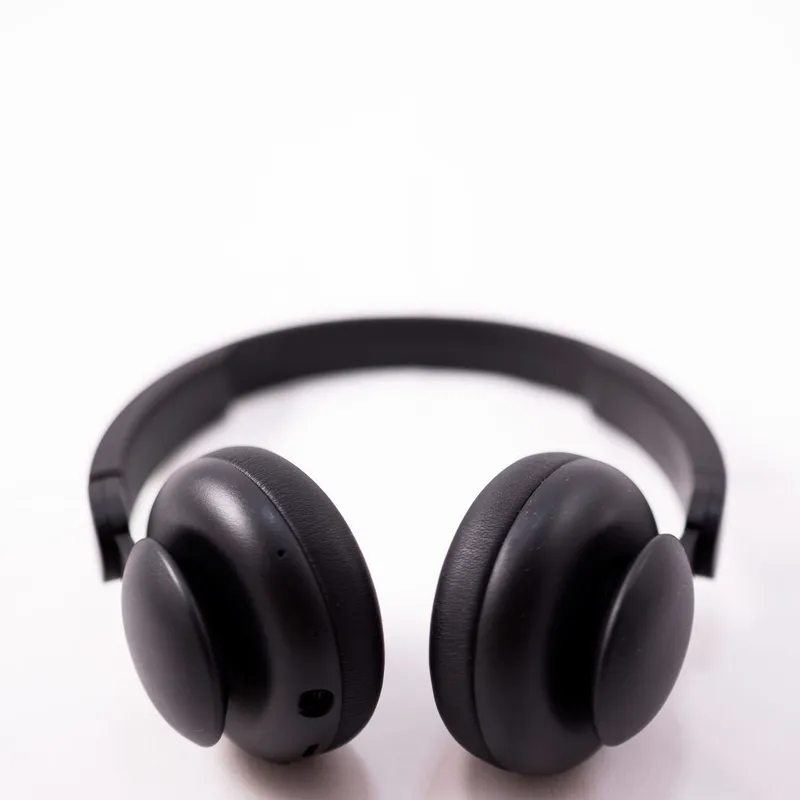
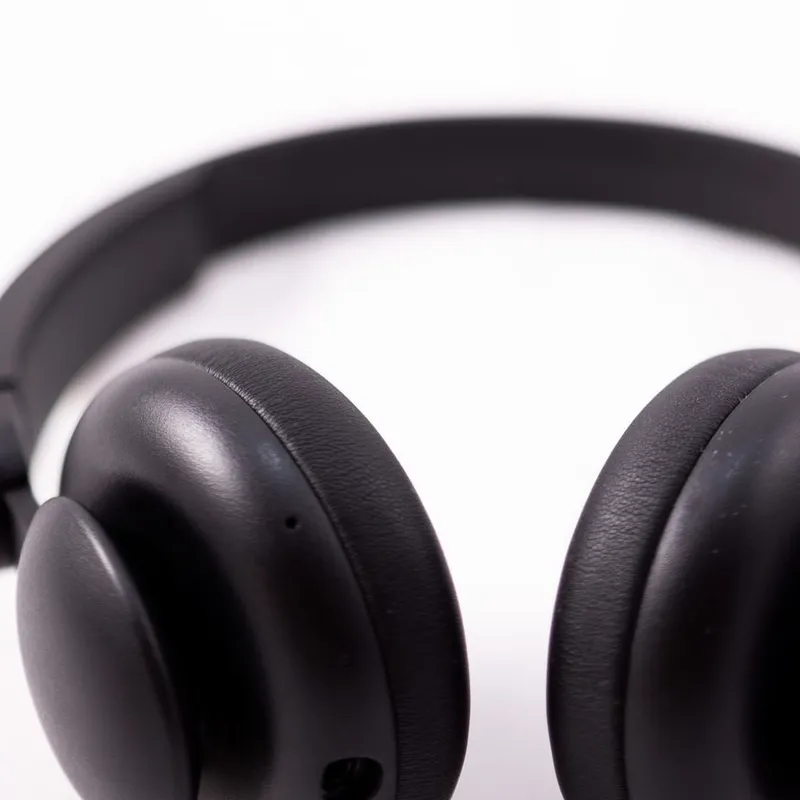
feat(qa): photo gate + credits + missing persona slots
scripts/check-photos.mjs: bramka foto (entropia sharp.stats + udział saturacji>55,
progi skalibrowane na secie z syntetycznym negatywem-kaflem, który MUSI oblać;
mono-próg thumbów 4.6 — downsampling 112px zjada ~1.5 pkt entropii). npm run
check:photos. Bramka wyłapała 2 słabe kadry V5 (plecak thumb entropy 2.15 =
wizualnie 'ikona' — to tłumaczy część piksel-audytu klienta) → ciasne kadry
u źródła. public/products/CREDITS.md (URL-e licencyjne per slug). Branże:
PersonaRow (Magda+AI+status) w headerze każdej rozmowy. docs/failures.md —
dziennik porażek (zasilony wstecznie z V5).

diff --git a/components/sections/ForWho.tsx b/components/sections/ForWho.tsx
@@ -6,6 +6,7 @@ import { pl } from "@/content/pl";
 import { Container, SectionLabel, SectionH2 } from "@/components/ui/Section";
 import { ChatShell } from "@/components/chat/ChatShell";
 import { exchangeToScript } from "@/components/chat/script";
+import { PersonaRow } from "@/components/chat/parts";
 import { useReveal } from "@/lib/motion";
 
 /** Foto kontekstu branży (V5-F5 pkt 10) — packshoty z products.json per zakładka. */
@@ -67,13 +68,19 @@ export function ForWho() {
                 {seg.chip}
               </p>
             </div>
-            <ChatShell
-              chrome="bare"
-              mode="static"
-              skin="onsite"
-              script={exchangeToScript(seg.key, { user: seg.user, bot: seg.bot })}
-              bodyClassName="gap-3"
-            />
+            <div className="min-w-0">
+              {/* v6: Magda w headerze każdej rozmowy branżowej (brief F5 pkt 10) */}
+              <div className="mb-4 border-b border-hairline pb-3">
+                <PersonaRow presence={pl.hero.chat.persona.status} />
+              </div>
+              <ChatShell
+                chrome="bare"
+                mode="static"
+                skin="onsite"
+                script={exchangeToScript(seg.key, { user: seg.user, bot: seg.bot })}
+                bodyClassName="gap-3"
+              />
+            </div>
           </div>
         </div>
 

diff --git a/docs/failures.md b/docs/failures.md
@@ -1,0 +1,17 @@
+# Dziennik porażek — co nie zagrało i dlaczego
+
+Cel: kolejne iteracje nie powtarzają ślepych uliczek. Wpisy chronologicznie, najnowsze na dole.
+
+## Z V5 (zebrane wstecznie)
+
+- **`gsap.quickTo(el, "scale")` + resetTo** → warning „scale not eligible for reset" przy każdym hover-klik cyklu kursora. GSAP każe rozbijać na osie: quickTo scaleX + scaleY za fasadą. Ta sama klasa: tweeny ze `scale` w kontekstach `revertOnUpdate` śmiecą konsolę przy przełączaniu scenariuszy — spring na samym `y` czyta się tak samo.
+- **Lighthouse przy dev-serverze w tle kłamie**: TBT 460 ms vs 60 ms na czystej maszynie (kontencja CPU). Mierzyć: kill dev → build → serve out/ → LH; bisekcja przez `git worktree` + symlink node_modules.
+- **Lantern (symulacja) LCP ≠ rzeczywistość**: 9,1 s symulowane vs 180 ms obserwowane (LCP = akapit hero). Dowód zawsze przez `--throttling-method=devtools` + PerformanceObserver w realnym Chromium.
+- **Pexels/Unsplash blokują curl na stronach HTML** (Cloudflare/anty-bot) — działa WebFetch; CDN images.pexels.com przez curl OK, ALE nowsze zdjęcia mają NIESTANDARDOWE nazwy plików (brać z og:image, nie zgadywać wzorca).
+- **Packshoty butów/kasków bez logo praktycznie nie istnieją w darmowych stockach** — kilkanaście odrzutów (HOKA/POC/SMITH/Merrell/…); strategia: kadr omijający logo albo produkt premium bez brandingu.
+- **drei `<View track>` poza Canvasem** ignoruje track (mierzy własny pusty div) — Views MUSZĄ być dziećmi Canvasa.
+- **`*/` wewnątrz komentarza CSS** zamyka komentarz (zmielone tokeny) — komentarze tokenów bez sekwencji `*/`.
+
+## V6
+
+- **2026-07-10 · Foto-gate oblał plecak i elektronikę** — nie przez brak fotografii, tylko przez SŁABE KADRY z V5: produkt mały na jednolitym tle (thumb 112 px tracił całą fakturę — entropia 2.15, wizualnie „ikona"). To wyjaśnia część piksel-audytu klienta. Fix: ciasny kadr u źródła (pipeline), NIE osłabianie progu; jedynie próg mono dla thumbów skalibrowany 5.0→4.6 (downsampling zjada ~1.5 pkt entropii; margines nad noisy-tile ~1.2 pkt zachowany).

diff --git a/public/products/CREDITS.md b/public/products/CREDITS.md
@@ -1,0 +1,25 @@
+# Źródła fotografii (V6 foto-gate)
+
+Wszystkie zdjęcia: **Pexels License** / **Unsplash License** — darmowe użycie komercyjne, bez wymogu atrybucji, modyfikacje dozwolone. Pobrane 2026-07-10, przetworzone `scripts/process-photos.mjs` (crop 1:1, desaturacja −8%, webp q80, 800 px + 112 px). Bramka jakości: `npm run check:photos` (entropia + udział saturacji — fotografia przechodzi, płaski kafel nie). Dziennik roboczy z odrzutami: `assets-src/SOURCES.md`.
+
+| Slug | Źródło (strona licencyjna) |
+|---|---|
+| m-city | https://www.pexels.com/photo/white-bike-on-wall-11524787/ |
+| m29 | https://www.pexels.com/photo/mountain-bike-in-irpin-forest-path-32910927/ |
+| kask-ridge | https://www.pexels.com/photo/helmet-with-goggles-15292264/ |
+| kask-core | https://unsplash.com/photos/rw8jnGPJpho |
+| x-trail-2 | https://www.pexels.com/photo/trail-running-shoe-on-a-forest-rock-29603275/ |
+| x-trail-mid | https://www.pexels.com/photo/hiking-shoes-with-black-sole-16562750/ |
+| kurtka-3l | https://unsplash.com/photos/UjzJzuCHZDU |
+| u-lock | https://www.pexels.com/photo/photograph-of-a-bicycle-lock-11145678/ |
+| plecak | https://www.pexels.com/photo/a-black-backpack-on-white-surface-13869858/ |
+| kurtka-kids | https://www.pexels.com/photo/stylish-brown-and-beige-child-s-clothing-rack-28259750/ |
+| spodnie-junior | https://www.pexels.com/photo/cozy-children-s-clothing-on-wooden-rack-28259747/ |
+| komplet-termo | https://www.pexels.com/photo/stack-of-folded-sweaters-on-white-background-30569741/ |
+| sukienka | https://www.pexels.com/photo/white-floral-dress-8618977/ |
+| dom | https://www.pexels.com/photo/lamp-on-table-6825311/ |
+| elektronika | https://www.pexels.com/photo/black-headphones-on-white-surface-7772548/ |
+| b2b | https://www.pexels.com/photo/warehouse-storage-with-stacked-cardboard-boxes-38195854/ |
+| team/magda | https://www.pexels.com/photo/professional-headshot-of-a-young-businesswoman-30468665/ |
+
+Loga platform (pas zaufania + marquee): simple-icons (CC0); Magento z simple-icons@11 (ikona usunięta w nowszych wydaniach). Szczegóły: `assets-src/SOURCES.md`.
